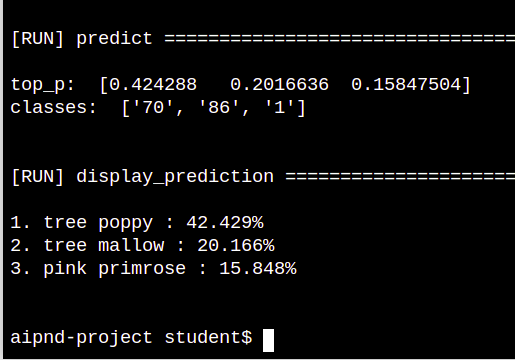
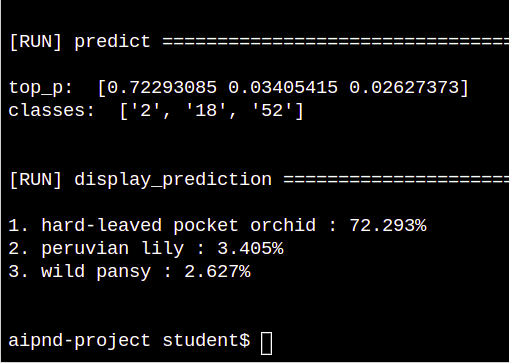
add final trained-model predict-capture

diff --git a/README.md b/README.md
@@ -131,12 +131,12 @@ python predict.py input checkpoint --gpu
 
 * **Use model trained with notebook**
 ```python 
-python predict.py "flowers/test/1/image_06743.jpg" checkpoints/checkpoint-final.pth --gpu
+python predict.py "flowers/test/2/image_05100.jpg" checkpoints/checkpoint-final.pth --gpu
 ```
 
 * **Use model trained with train.py**
 ```python 
-python predict.py "flowers/test/1/image_06743.jpg" checkpoints/checkpoint.pth --gpu
+python predict.py "flowers/test/2/image_05100.jpg" checkpoints/checkpoint.pth --gpu
 ```
 
 ![Result](assets/predict_result.png)
